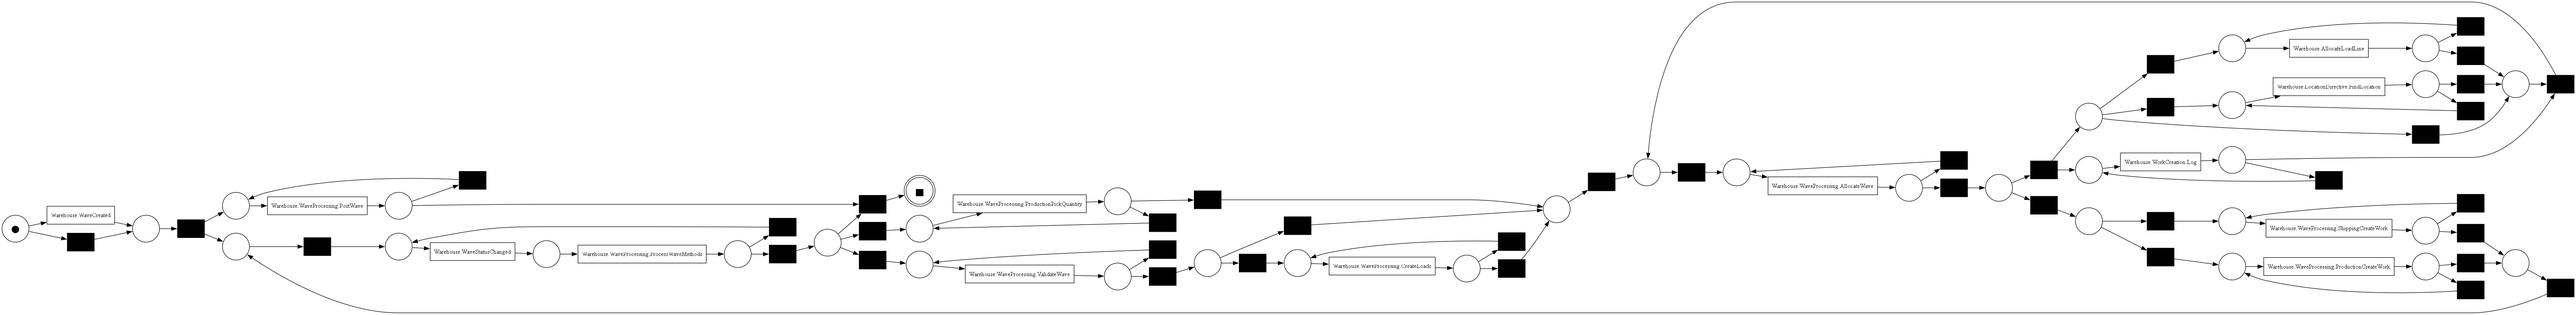
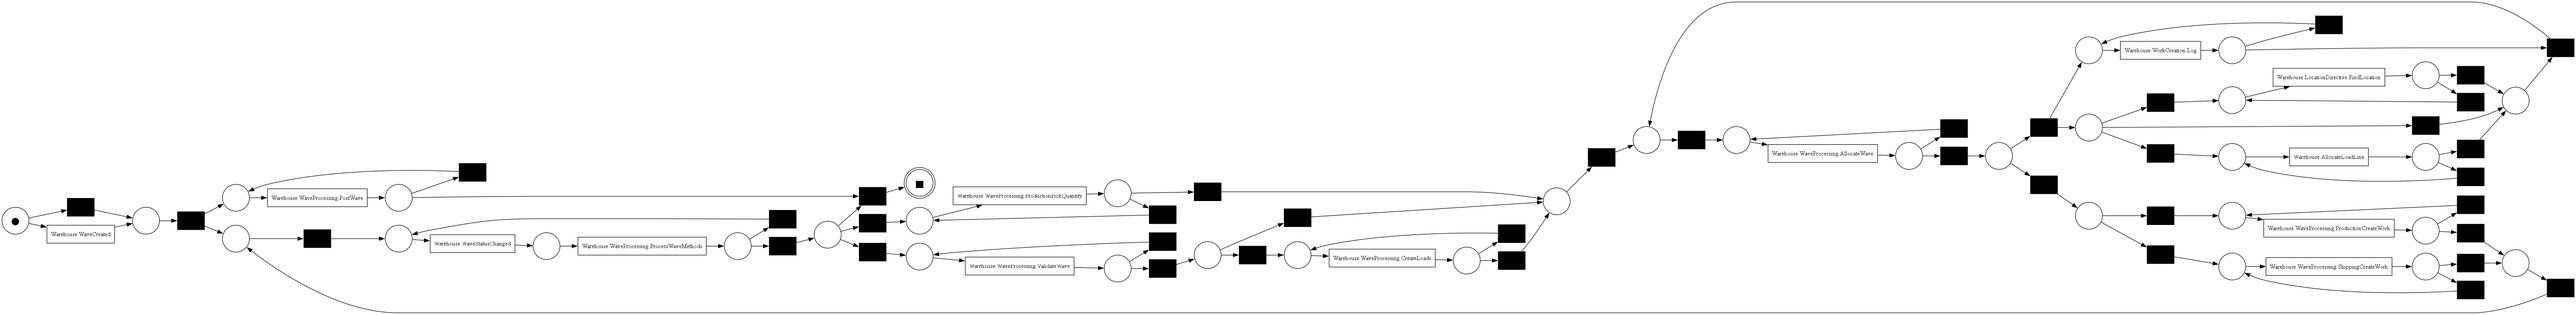
Add date range badge to AppInsightsTab and remove project info from SettingsTab

diff --git a/frontend/src/app/tabs/SettingsTab.jsx b/frontend/src/app/tabs/SettingsTab.jsx
@@ -163,33 +163,6 @@ export default function SettingsTab() {
 
       </div>
 
-      {/* Proje Bilgisi */}
-      <div className="sectionCard">
-        <h3 className="sectionTitle">Proje Hakkında</h3>
-        <div className="projectInfo">
-          <div className="projectRow">
-            <span className="projectKey">Proje Başlığı</span>
-            <span className="projectVal">Microsoft Dynamics 365 Destekli Süreç Madenciliği Tabanlı İş Süreci Analiz Platformu</span>
-          </div>
-          <div className="projectRow">
-            <span className="projectKey">Öğrenci</span>
-            <span className="projectVal">Süleyman Asım Gelişgen</span>
-          </div>
-          <div className="projectRow">
-            <span className="projectKey">Danışman</span>
-            <span className="projectVal">Prof. Dr. Turgay Tugay Bilgin</span>
-          </div>
-          <div className="projectRow">
-            <span className="projectKey">Veri Kaynakları</span>
-            <span className="projectVal">Statik: BPI Challenge 2012 (benchmark) · D365 Dummy Data (Supabase) — Canlı: Azure Application Insights (D365 F&amp;O, BalSoft)</span>
-          </div>
-          <div className="projectRow">
-            <span className="projectKey">Teknolojiler</span>
-            <span className="projectVal">Python · FastAPI · pm4py · React 19 · Supabase · Azure Application Insights (KQL) · Graphviz · Google Gemini</span>
-          </div>
-        </div>
-      </div>
-
     </div>
   );
 }

diff --git a/frontend/src/app/tabs/AppInsightsTab.jsx b/frontend/src/app/tabs/AppInsightsTab.jsx
@@ -32,6 +32,15 @@ const METRICS = [
 
 const DAYS_OPTIONS = [7, 14, 30];
 
+const TR_MONTHS = ["Ocak","Şubat","Mart","Nisan","Mayıs","Haziran","Temmuz","Ağustos","Eylül","Ekim","Kasım","Aralık"];
+function dateRangeTR(days) {
+  const to = new Date();
+  const from = new Date(to);
+  from.setDate(to.getDate() - days);
+  const fmt2 = (d) => `${d.getDate()} ${TR_MONTHS[d.getMonth()]} ${d.getFullYear()}`;
+  return `${fmt2(from)} – ${fmt2(to)}`;
+}
+
 const fmt = (n) => (n ?? 0).toLocaleString("tr-TR");
 const day = (iso) => (iso ? String(iso).slice(0, 10) : "—");
 const fmtMs = (ms) => (ms >= 1000 ? `${(ms / 1000).toLocaleString("tr-TR", { maximumFractionDigits: 1 })} sn` : `${Math.round(ms)} ms`);
@@ -271,6 +280,10 @@ export default function AppInsightsTab() {
               {DAYS_OPTIONS.map((d) => <option key={d} value={d}>Son {d} gün</option>)}
             </select>
           </label>
+          <div className="aiDateRangeBadge">
+            
+            <span className="aiDateRangeText">{dateRangeTR(days)}</span>
+          </div>
         </div>
         {activeProc && <p className="aiControlNote">{activeProc.description}</p>}
       </section>

diff --git a/frontend/src/app/tabs/AppInsightsTab.css b/frontend/src/app/tabs/AppInsightsTab.css
@@ -550,6 +550,25 @@ th.aiNum { text-align: right; }
 /* ── Kontrol kartı: süreç + zaman ── */
 .aiControlCard { display: flex; flex-direction: column; gap: var(--sp-12); }
 .aiControlMain { display: flex; align-items: flex-end; gap: var(--sp-20); flex-wrap: wrap; }
+
+.aiDateRangeBadge {
+  display: flex;
+  align-items: center;
+  gap: 7px;
+  padding: 8px 14px;
+  background: rgba(34,211,238,0.07);
+  border: 1px solid rgba(34, 211, 238, 0.218);
+  border-radius: 6px;
+  white-space: nowrap;
+}
+.aiDateRangeIcon { font-size: 14px; line-height: 1; }
+.aiDateRangeText {
+  font-family: var(--mono);
+  font-size: 12.5px;
+  font-weight: 600;
+  color: var(--live-signal);
+  letter-spacing: 0.02em;
+}
 .aiSeg {
   display: inline-flex;
   background: var(--bg-surface2);
